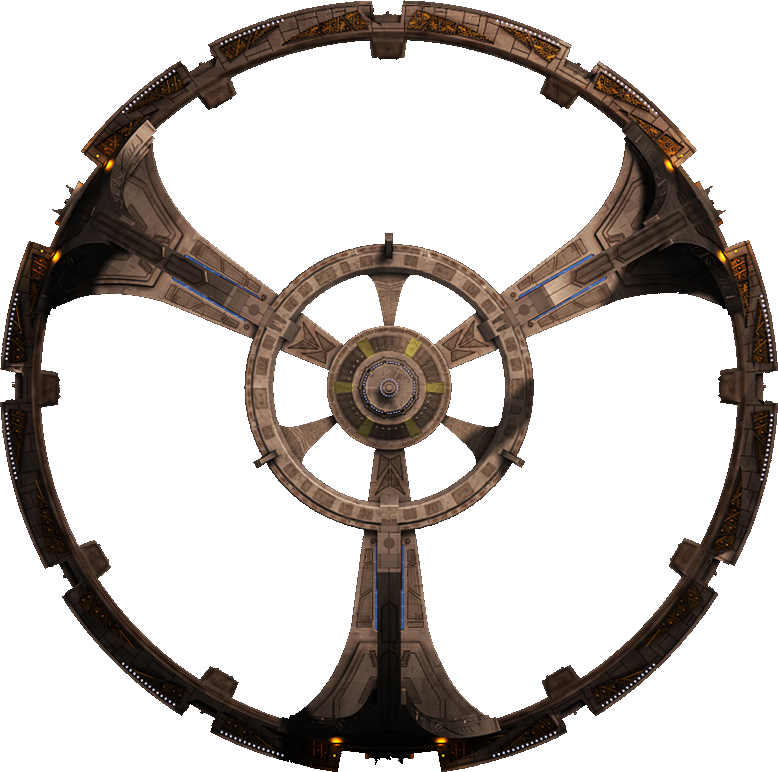
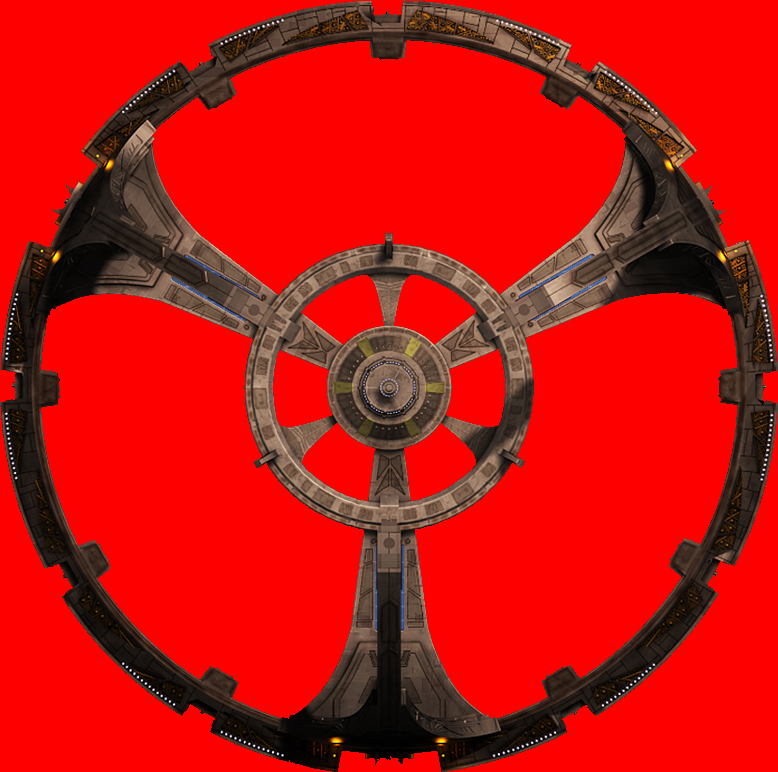
Optomize colorkeys to larget images

diff --git a/spacegame_ii/ui_states.py b/spacegame_ii/ui_states.py
@@ -25,39 +25,32 @@ from sgc.locals import *
 
 from sgc.__init__ import __version__ as ver_no
 
-
-
-class InternalSGCMenu(sgc.Menu):
-		def __init__(self, *args, **kwargs):
-			self.additive_functions=kwargs["__additive_functions"]
-			self.state=kwargs["__state"]
-			sgc.Menu.__init__(self, *args, **kwargs)
-		def func_dict(self):
-			v=self.additive_functions
-			v.update({
-				"exit":self.state.finish,
-				"print_input":self.print_inputx
-				})
-			return v
-		def print_inputx(self):
-			print self["input"].text
-
 class GenericUIInterdictor(state.InterdictingState):
-	additive_functions={}
+	def add_widget(self, n, w):
+		self.widgets[n]=w
+		self.widgets[n].add()
+
+	def del_widget(self, n):
+		self.widgets[n].remove()
+
+	def get_widget(self, n):
+		return self.widgets[n]
+
+	def remove(self):
+		self.del_widget("button")
 
 	def start(self):
-		refactored_menu=self.params["menucfg"]
-		refactored_menu[0]="m:"+self.params["name"]
-		self.menu=InternalSGCMenu(menu=refactored_menu, __additive_functions=self.additive_functions, __state=self)
-		self.menu.additive_functions=self.additive_functions
-		self._custom_image=self.root.gamedb(self.params["bg_image"])
-		self.menu.add()
+		self.widgets={}
+
+		b=sgc.Button(label="Remove")
+		b.on_click=self.remove
+		self.add_widget("button", b)
 
 	def internal_update(self):
 		for event in pygame.event.get():
 			sgc.event(event)
 		
-		#self.root.screen.screen.blit(self.root.gamedb(self.params["bg_image"]), (0,0))
+		self.root.screen.screen.blit(self.root.gamedb(self.params["bg_image"]), (0,0))
 		sgc.update(self.root.clock.get_fps())
 
 		self.root.fps=9999

diff --git a/spacegame_ii/assets.py b/spacegame_ii/assets.py
@@ -42,6 +42,12 @@ class GameAssetDatabase:
 			if "convert_alpha" in node:
 				if not node["convert_alpha"]:
 					ca=node["convert_alpha"]
+			elif "colorkey" in node:
+				print "converet"
+				ca=0
+				#i.set_alpha(None)
+				i=i.convert()
+				i.set_colorkey(node["colorkey"])
 			if "scale" in node:
 				i=pygame.transform.scale(i, node["scale"])
 			if ca:

diff --git a/spacegame_ii/test_state.py b/spacegame_ii/test_state.py
@@ -26,7 +26,7 @@ debug("Pygame started")
 
 renderspace_size=(1300,700)
 
-screen=sgc.surface.Screen(renderspace_size)
+screen=sgc.surface.Screen(renderspace_size, pygame.DOUBLEBUF)
 pygame.display.set_caption("Spacegame Alpha")
 
 
